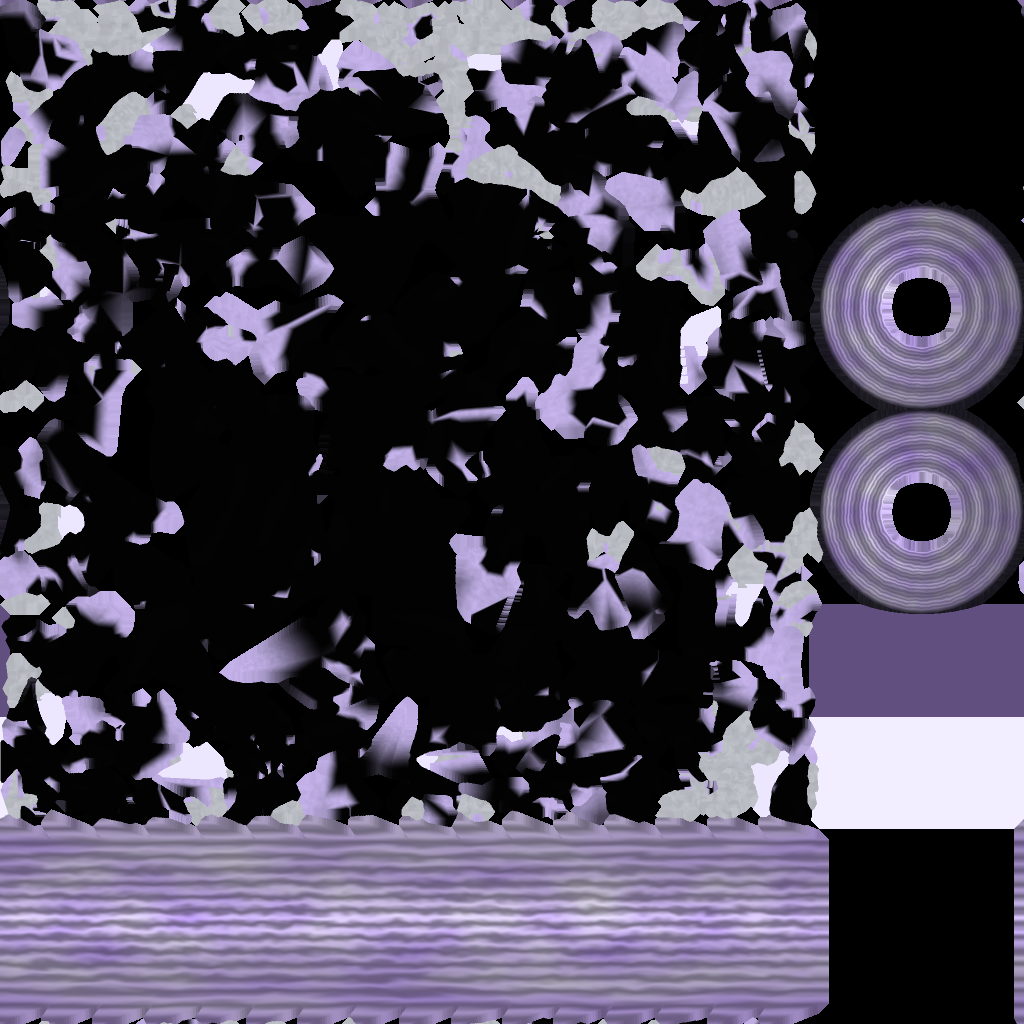
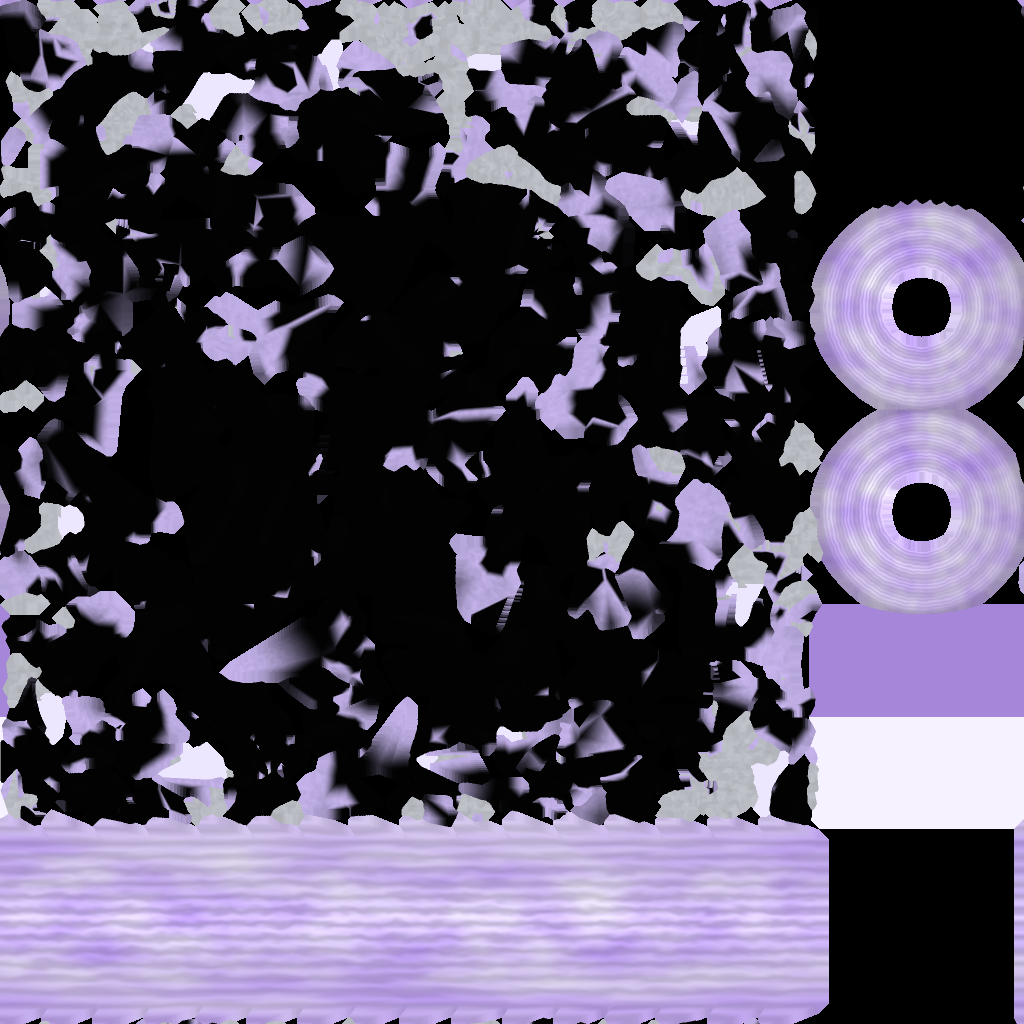
Horns + black hole (no emissive): brighter disk and halo
Claude-Session: https://claude.ai/code/session_01M8xpJeZPsNE3rcjNjv2sRU

diff --git a/horns_blackhole/tools/bake.py b/horns_blackhole/tools/bake.py
@@ -78,14 +78,14 @@ if NOEM:
         rings=0.5+0.5*np.sin(rr*110+fbm(p[m]*22,3,8)*5); gaps=0.7+0.3*np.sin(rr*23+1.3)
         doppler=0.80+0.20*np.cos(ang-np.pi)
         v=np.clip((0.45+0.55*rings)*gaps*doppler*(1-0.45*rr),0,1)
-        col[m]=tint(v,p[m],7)*(0.35+0.65*v)[:,None]*ss(1.03,0.92,rr)[:,None]+np.array([0.02,0.02,0.03])
-        rgh[m]=0.28+0.15*(1-rings); met[m]=0.0
+        col[m]=np.clip(tint(v,p[m],7)*(0.78+0.30*v)[:,None]*(0.85+0.15*ss(1.03,0.92,rr))[:,None],0,1)
+        rgh[m]=0.35+0.12*(1-rings); met[m]=0.0
     m=k==PARTS.index('halo'); lat=A[m][:,1]
     streak=0.6+0.4*np.sin(lat*95+fbm(p[m]*30,2,21)*3); eqb=np.exp(-((lat-0.5)/0.12)**2)
     v=np.clip((0.55+0.45*eqb)*streak,0,1)
-    col[m]=tint(v,p[m],9)*(0.45+0.55*v)[:,None]; rgh[m]=0.3; met[m]=0.0
+    col[m]=np.clip(tint(v,p[m],9)*(0.80+0.25*v)[:,None],0,1); rgh[m]=0.35; met[m]=0.0
     m=k==PARTS.index('disk_edge'); inner=A[m][:,0]<0.5
-    col[m]=np.where(inner[:,None],np.array([0.95,0.93,1.0]),mauve*0.5); rgh[m]=0.25
+    col[m]=np.where(inner[:,None],np.array([0.97,0.95,1.0]),mauve*0.85); rgh[m]=0.3
     em[:]=0.0
 def img(vals,ch):
     im=np.zeros((S,S,ch)); im[idx]=vals.reshape(n,ch); return im
